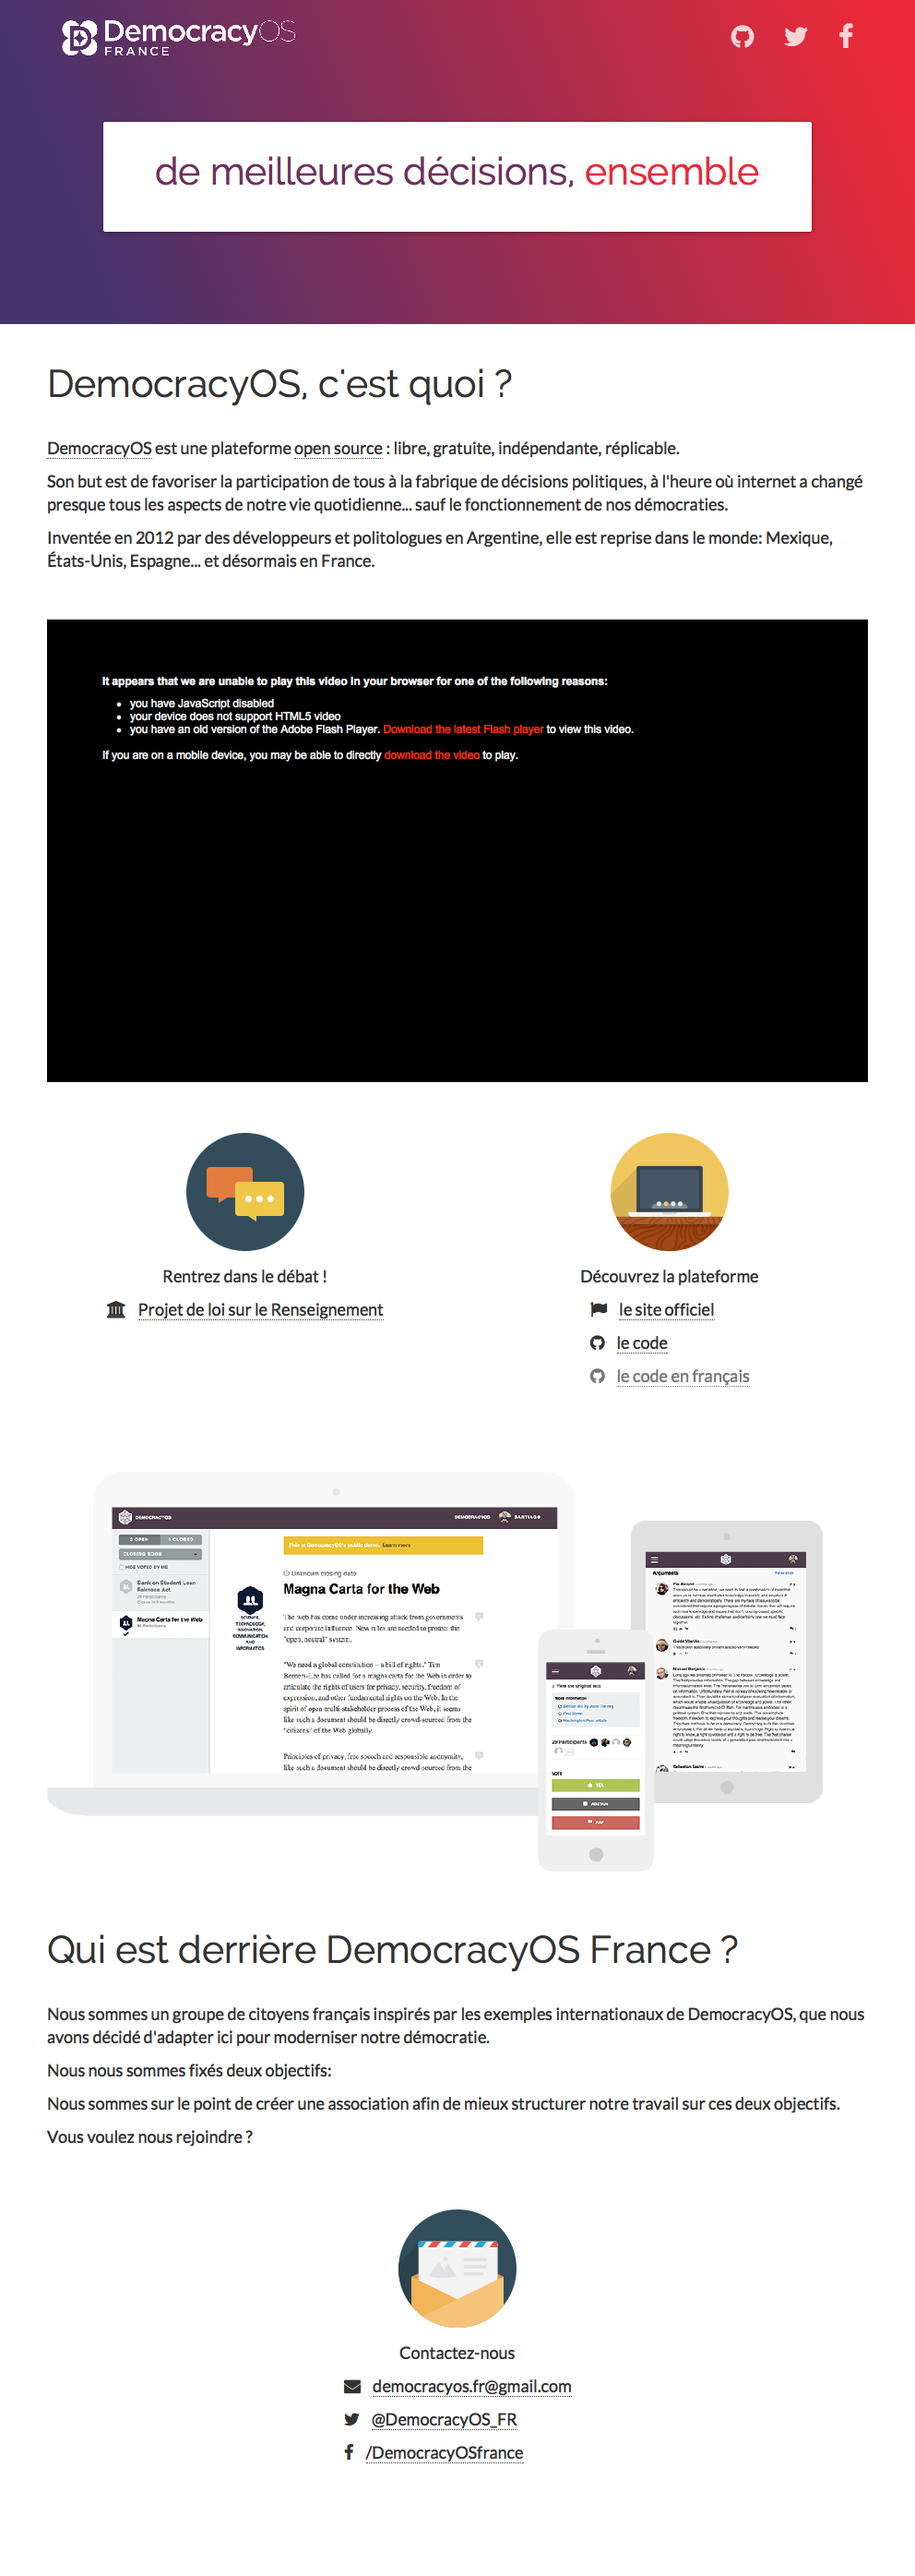
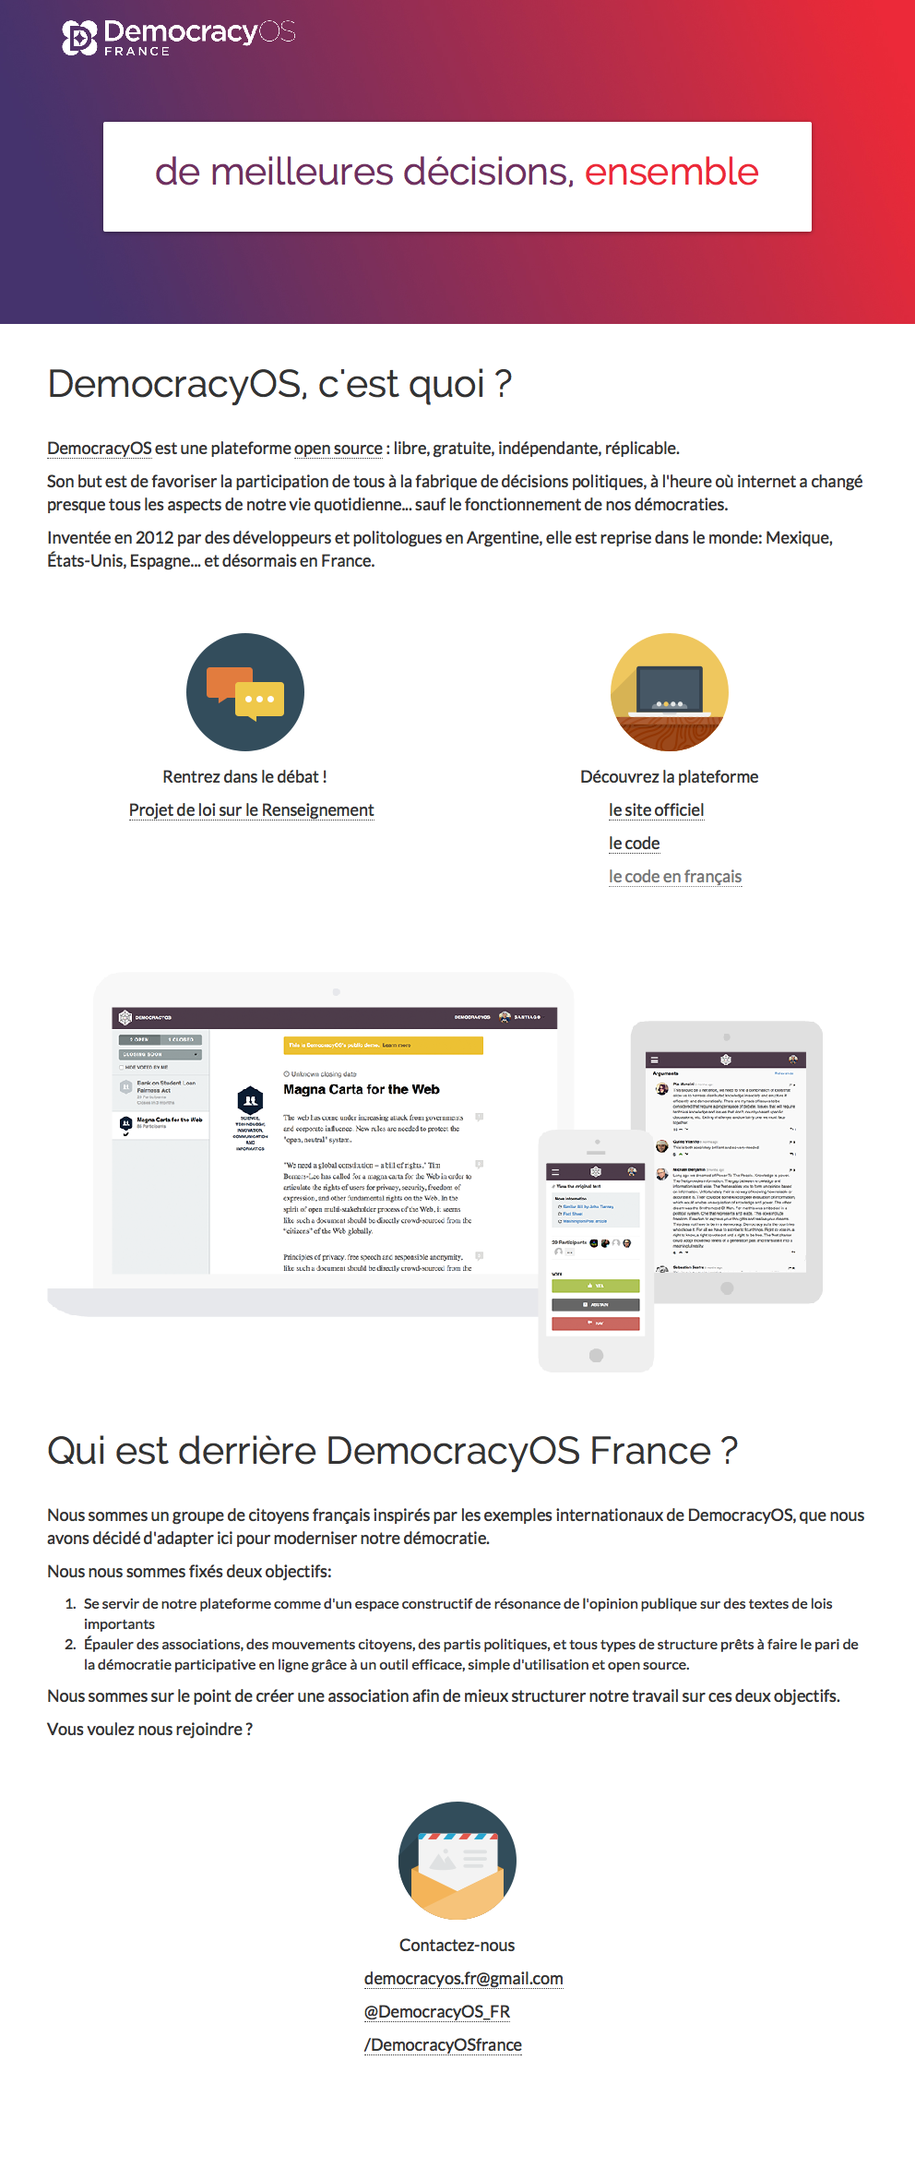
hot fix

diff --git a/index.html b/index.html
@@ -119,6 +119,10 @@
 			<h1>Qui est derrière DemocracyOS France ?</h1>
 			<p>Nous sommes un groupe de citoyens français inspirés par les exemples internationaux de DemocracyOS, que nous avons décidé d'adapter ici pour moderniser notre démocratie.</p>
 			<p>Nous nous sommes fixés deux objectifs:</p>
+			<ol>
+				<li>Se servir de notre plateforme comme d'un <b>espace constructif de résonance de l'opinion publique</b> sur des textes de lois importants</li>
+				<li>Épauler des associations, des mouvements citoyens, des partis politiques, et tous types de structure prêts à <b>faire le pari de la démocratie participative en ligne</b> grâce à un outil efficace, simple d'utilisation et open source.</li>
+			</ol>
 			<p>Nous sommes sur le point de créer une association afin de mieux structurer notre travail sur ces deux objectifs.</p>
 			<p><b>Vous voulez nous rejoindre ?</b></p>
     </section>
